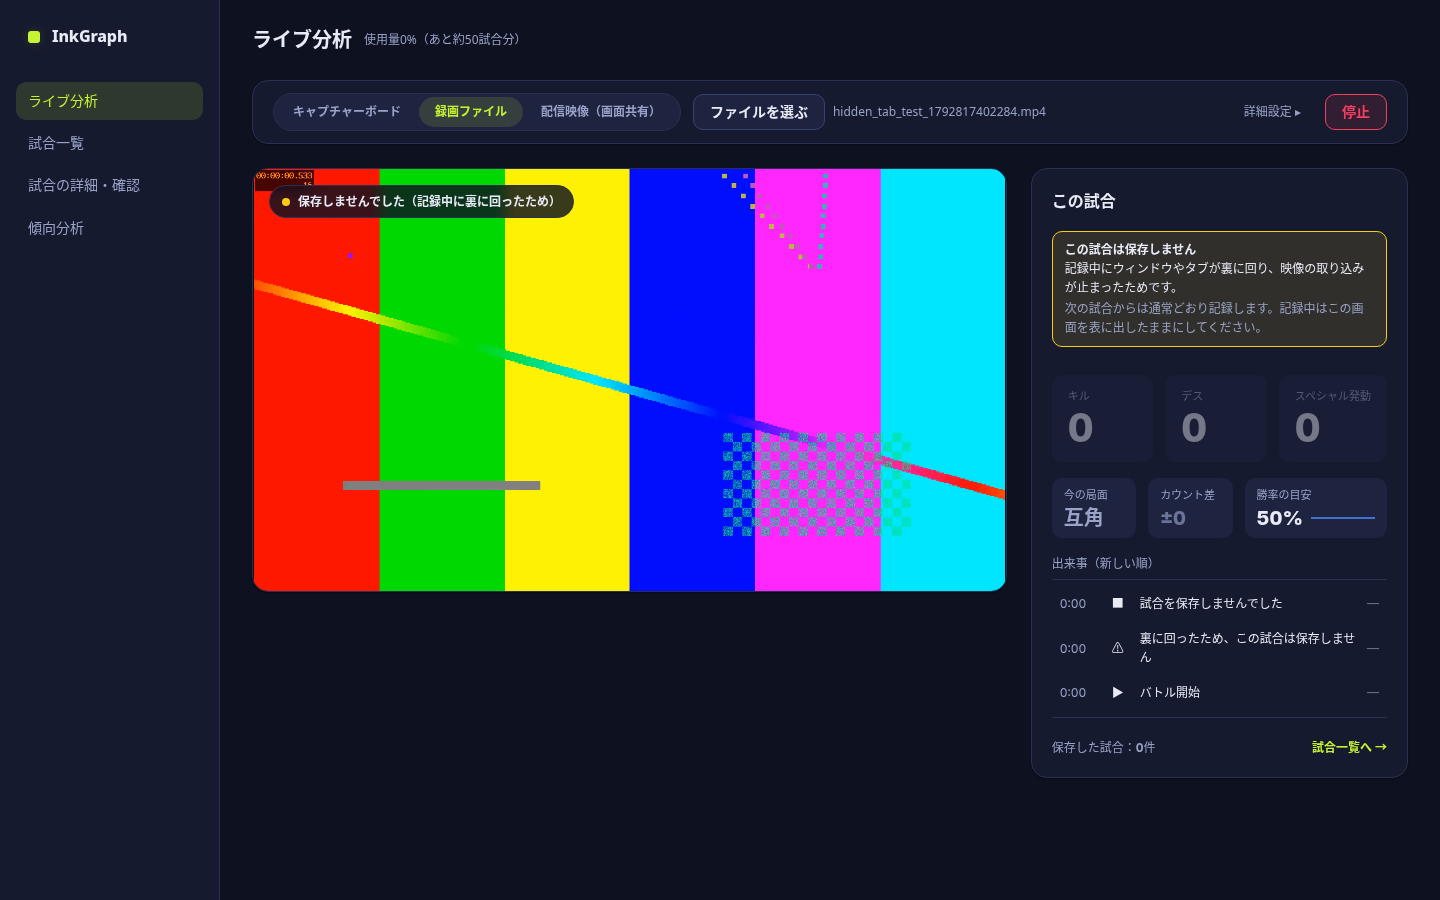
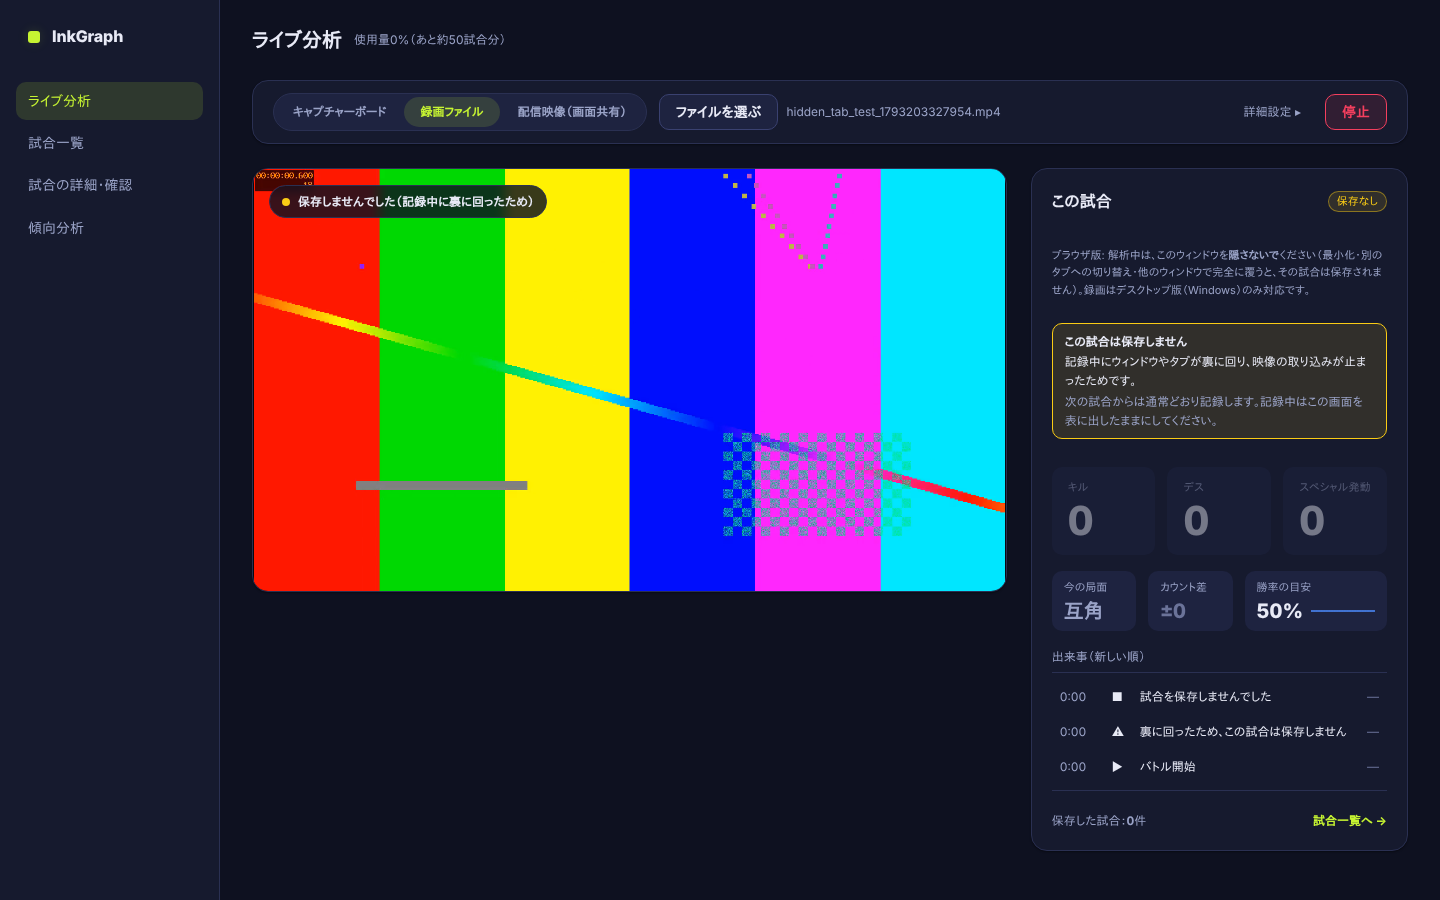
ライブ映像で「早送り」が渡って録画・中断検出が切れていた不具合の修正 / Windows版ビルドの自動化 (#168)
* 検証録画: 直近1試合の全コマ＋分析結果のzip書き出し (D67)

Claude-Session: https://claude.ai/code/session_018zsqgbHNLDpb8cVTBpk5SR

* 試合ごとの録画ファイル: ルール・ステージ入りの名前で1試合1ファイル (D68)

Claude-Session: https://claude.ai/code/session_018zsqgbHNLDpb8cVTBpk5SR

* 試合録画にゲーム音を追加 (D68追記)

Claude-Session: https://claude.ai/code/session_018zsqgbHNLDpb8cVTBpk5SR

* ブキアイコンの読み違い対策（ボードの数が読めない枠を捨てる・絵の無いアイコンを出さない）と記録の全消去ボタン (D69)

Claude-Session: https://claude.ai/code/session_018zsqgbHNLDpb8cVTBpk5SR

* 試合録画: 状況表示と保存先の書き込み許可の聞き直し (D70)

Claude-Session: https://claude.ai/code/session_018zsqgbHNLDpb8cVTBpk5SR

* 試合録画: 2試合連続で別ファイルになることのテストを追加

Claude-Session: https://claude.ai/code/session_018zsqgbHNLDpb8cVTBpk5SR

* Windows デスクトップ版（Electron）の追加。ブラウザ版は録画なし・隠さない注意つきで残す (D71)

Claude-Session: https://claude.ai/code/session_018zsqgbHNLDpb8cVTBpk5SR

* 録画の診断通知を各段階に追加 (D71追記)

Claude-Session: https://claude.ai/code/session_018zsqgbHNLDpb8cVTBpk5SR

* Windows版ビルドをmainの変更で自動実行し、固定リリース desktop-latest に出す

Claude-Session: https://claude.ai/code/session_018zsqgbHNLDpb8cVTBpk5SR

* ライブ映像で「早送り」が渡って録画・中断検出が切れていた不具合を修正 (D71追記)

Claude-Session: https://claude.ai/code/session_018zsqgbHNLDpb8cVTBpk5SR

---------

diff --git a/web/src/session.js b/web/src/session.js
@@ -29,7 +29,7 @@ export class Session {
       else if (isDesktop()) { const d = await desktop().getVideoDir().catch(() => null); this.videoNote(`録画: オン（保存先: ${d?.dir || '既定のフォルダ'}）。次のバトル開始から録画します`); }
       else { const h = await db.getVideoDir().catch(() => null), p = await ensureDirPermission(h); this.videoNote(h ? (p === 'granted' ? `録画: オン（保存先: ${h.name}）。次のバトル開始から録画します` : '録画: オン。保存先フォルダの書き込みが許可されなかったので、ダウンロードで保存します') : '録画: オン（保存先フォルダ未設定のため、ダウンロードで保存します）。次のバトル開始から録画します'); }
     }
-    this.mode = mode; this.owner = owner || 'self'; this.fast = fast; this.sessionId = new Date().toISOString();
+    this.mode = mode; this.owner = owner || 'self'; this.fast = !!fast && mode === 'file'; this.sessionId = new Date().toISOString();
     if (mode === 'stream') {
       this.sourceName = '配信映像（画面共有）';
       this.stream = await navigator.mediaDevices.getDisplayMedia({ video: { width: { ideal: 1920 }, height: { ideal: 1080 }, frameRate: { ideal: 30 } }, audio: wantAudio });
@@ -96,7 +96,7 @@ export class Session {
       }, 2000);
     }
 
-    if (mode === 'file' && fast) this.fastLoop(); else { if (mode === 'file') await this.video.play(); this.liveLoop(); }
+    if (mode === 'file' && this.fast) this.fastLoop(); else { if (mode === 'file') await this.video.play(); this.liveLoop(); }
   }
   now() { return (this.mode === 'device' || this.mode === 'stream') ? (performance.now() - this.t0) / 1000 : this.video.currentTime; }
   _notifyInterrupted(info) {

diff --git a/docs/DECISIONS.md b/docs/DECISIONS.md
@@ -817,3 +817,5 @@
 - 配布：`.github/workflows/desktop-build.yml`（windows-latest で `electron-builder`。手動実行／`desktop-v*` タグ。インストーラーとポータブル exe を Artifacts／Release に出す）。コード署名はしていない（初回に SmartScreen の警告が出る）。
 - 検証：`desktop/tools/desktop_check.js`（Linux の Xvfb 上の Electron で 9 件 PASS：デスクトップ版として開く・設定パネル・ウィンドウを隠す／最小化してもタイマー駆動の取り込みが止まらない・隠したまま 2 試合続けて 2 つの録画ファイル（ルール・ステージ入りの名前・.part が残らない・WebM ヘッダー））。`web/tools/video_rec_check.mjs` を更新（ブラウザ版は録画の設定が出ない・ライブ画面の注意・実験フラグでの仕組みの確認、19 件 PASS）。`session_keepalive_check`・`stream_capture_check`・`cloud_ui_check`・`clip_ui_check`・`verify_rec_check`・`reset_check`・`mobile_list_check` も PASS。**未確認：Windows 実機（実際の最小化・他ウィンドウでの遮蔽・インストーラー・キャプチャーボード・システム音の loopback）。Xvfb にはウィンドウマネージャーが無く、`document.visibilityState` は hidden にならないため、Chromium の遮蔽判定そのものは再現できていない。**
 - 追記（D71）録画の診断：ブラウザ版で「録画: オン」のあと、試合が終わっても何も出ない、という報告があった（原因は特定できず）。録画の各段階で、理由つきの通知を出すようにした：開始できない理由（ストリーム無し・環境が非対応）、バトル終了時に録画が始まっていなかった、試合として確定せず捨てた、試合を保存しなかったので録画も捨てた、保存時に対応する録画が無かった。デスクトップ版でも同じ通知が出る。
+- 追記（D71）配布の自動化：Windows 版のビルドは、main に `desktop/**`・`web/**`・ワークフロー自身の変更が入ると自動で動く（連続して入ったら古いほうは中止）。成果物は Artifacts と、固定のリリース `desktop-latest`（毎回作り直す pre-release）。手動実行・`desktop-v*` タグも残す。Windows のビルドは数分かかるので、Actions の無料枠（private リポジトリは Windows が 2 倍換算）に注意。アプリ内の自動更新（electron-updater）は未対応で、今は新しい exe を取り直す。
+- 追記（D71）不具合：ライブ映像（配信／キャプチャー）の解析で、「ファイルは早送りで解析」のチェック（既定でオン）が `fast` として渡され、`Session.fast` が真になっていた。`!this.fast` の中にある処理（中断の検出（CaptureGuard）・見張りタイマー・録画の開始／保存・hidden の扱い）が**ライブ映像ですべて切れていた**。録画が始まらなかった（「この試合に対応する録画がありません」）原因はこれ。`fast` はファイルの解析だけで有効にする（`this.fast = fast && mode === 'file'`）。ライブ映像では、中断の検出が有効になる（映像の取り込みが 3 秒以上止まった試合は保存しない、という本来の動き）。`video_rec_check` に、`fast: true` でライブ映像を始めても `fast` が無視され、見張り・録画・中断の検出が動くことの確認を追加（20 件 PASS）。
